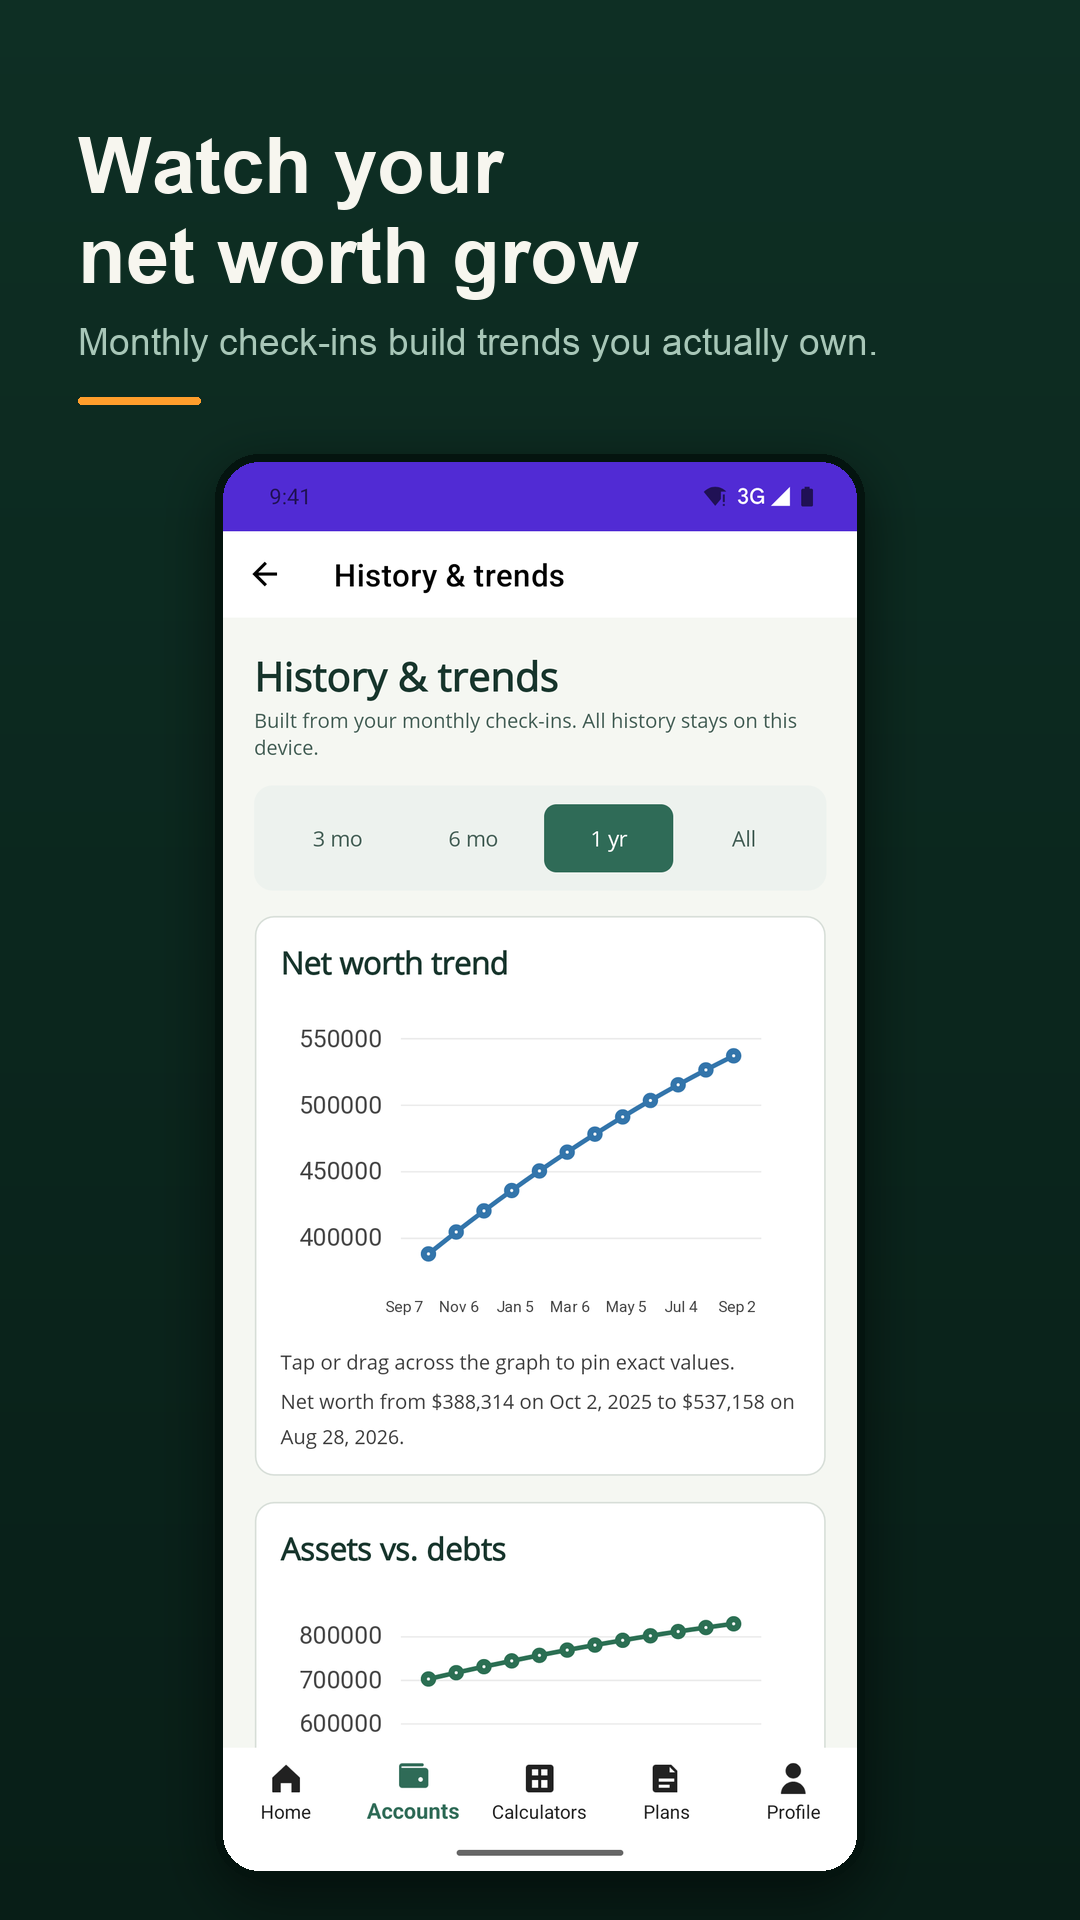
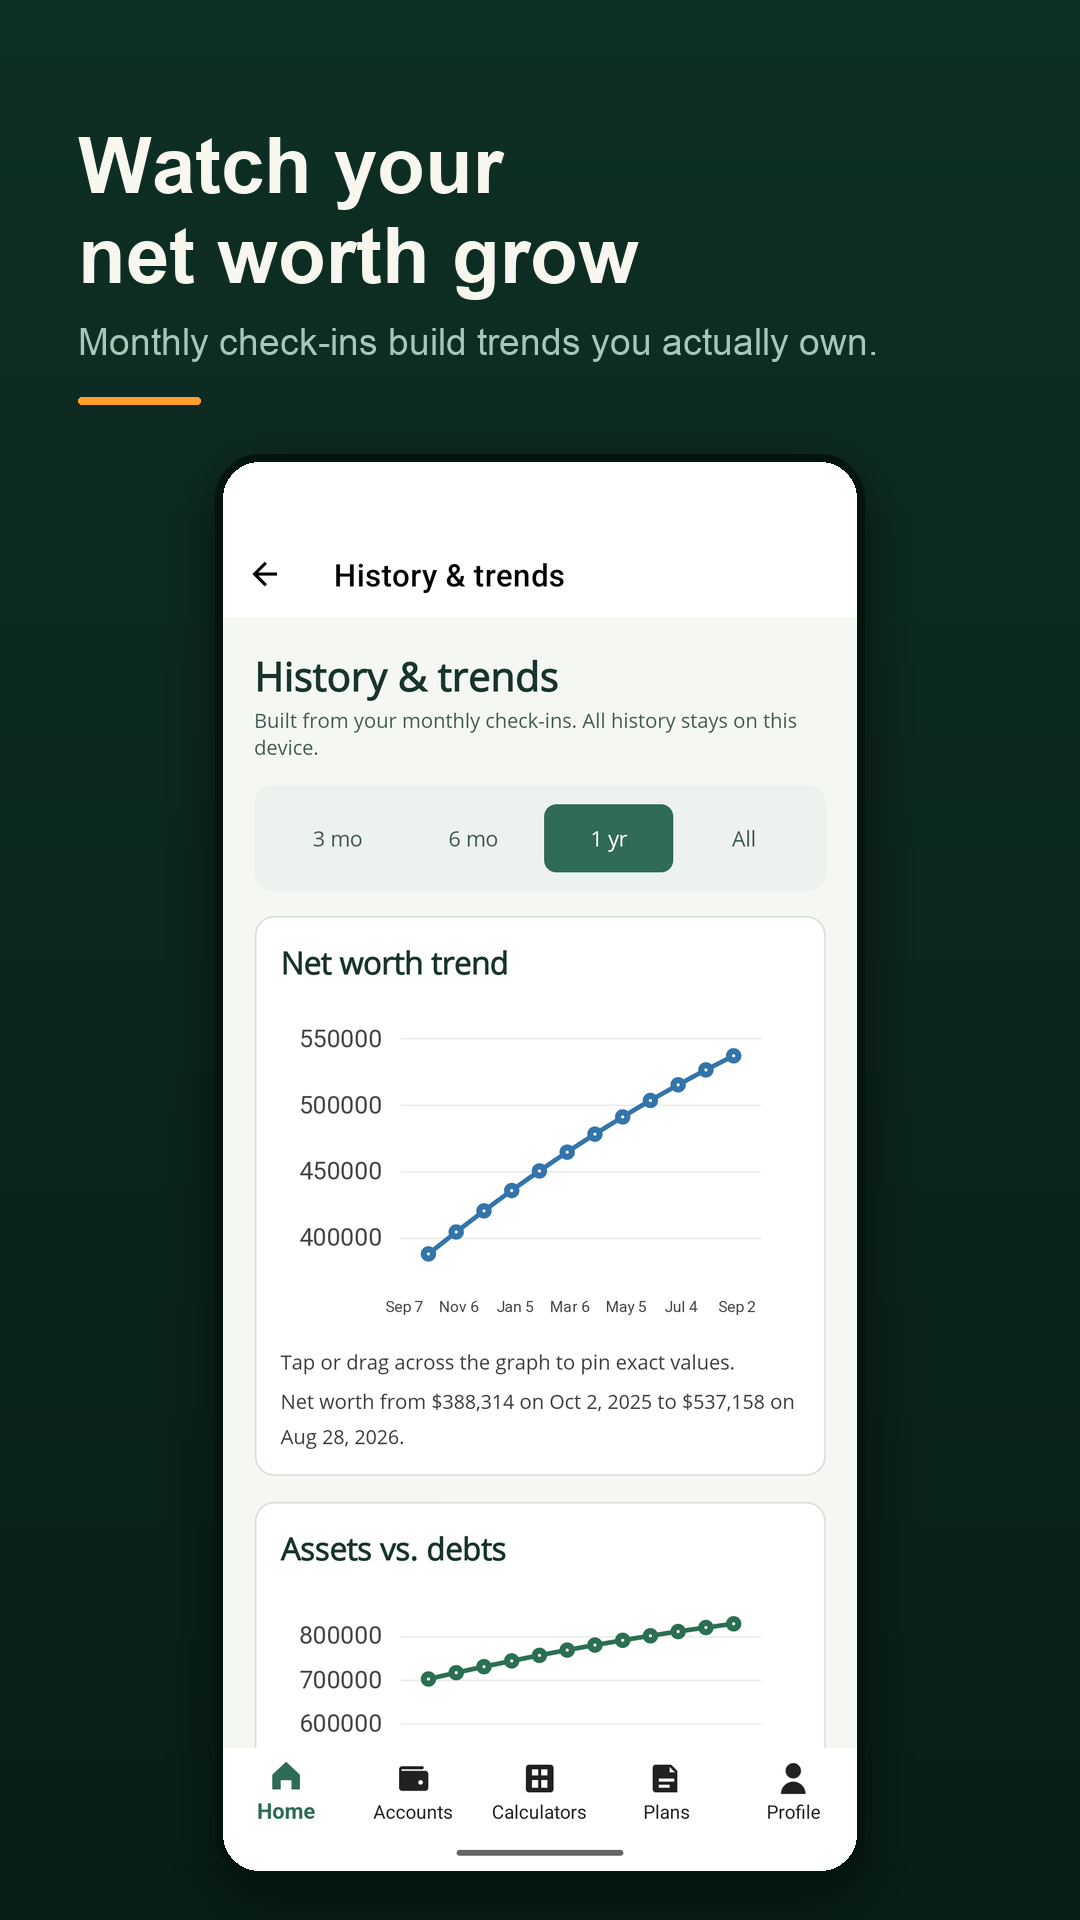
Fix purple status bar on Android nav-bar pages
Pages with Shell.NavBarIsVisible="True" (Coast FIRE, Standard FIRE,
History & trends, Profile, etc.) fell back to the unedited .NET MAUI
template purple (#512BD4) for the Android status bar, since
Platforms/Android/Resources/values/colors.xml never got customized.
Updated colorPrimary/colorPrimaryDark/colorAccent to match the app's
light palette and added a values-night override for dark mode.

Re-captured and reframed the two affected Play Store screenshots
(History & trends, Coast FIRE) now that the bug is fixed.

Copilot-Session: 435e9742-2e97-44fb-a866-92397dadca1a

Changed region(s): [[0.1833, 0.2188, 0.7944, 0.2812], [0.3361, 0.9062, 0.4278, 0.9688], [0.2444, 0.9062, 0.275, 0.9688]]

diff --git a/tools/store-screenshots/README.md b/tools/store-screenshots/README.md
@@ -218,3 +218,16 @@ Play Store phone screenshots must be between 320 and 3840 px on a side with an
 aspect ratio no taller than 2:1, so the Pixel's native 1080 x 2400 (2.22:1) is
 rejected. 1080 x 1920 is the safe target.
 
+**Purple status bar on pages with a nav bar.** Any page with
+`Shell.NavBarIsVisible="True"` (Coast FIRE, Standard FIRE, History & trends,
+Profile, ...) used to show the default .NET MAUI template purple
+(`#512BD4`) behind the status bar on Android, while pages with a hidden nav
+bar (Home, Accounts, Calculators, Plans) looked correct. Root cause:
+`Platforms/Android/Resources/values/colors.xml` still had the unedited
+template `colorPrimary`/`colorPrimaryDark`, which Android falls back to for
+the status bar whenever the native Toolbar is shown — this is unrelated to
+the Shell/NavigationPage `BarBackgroundColor` XAML setters in
+`Resources/Styles/Styles.xaml`. Fixed by updating `colors.xml` to the app's
+actual light palette and adding a `values-night/colors.xml` override for
+dark mode. If you see this again, check those two files first.
+
